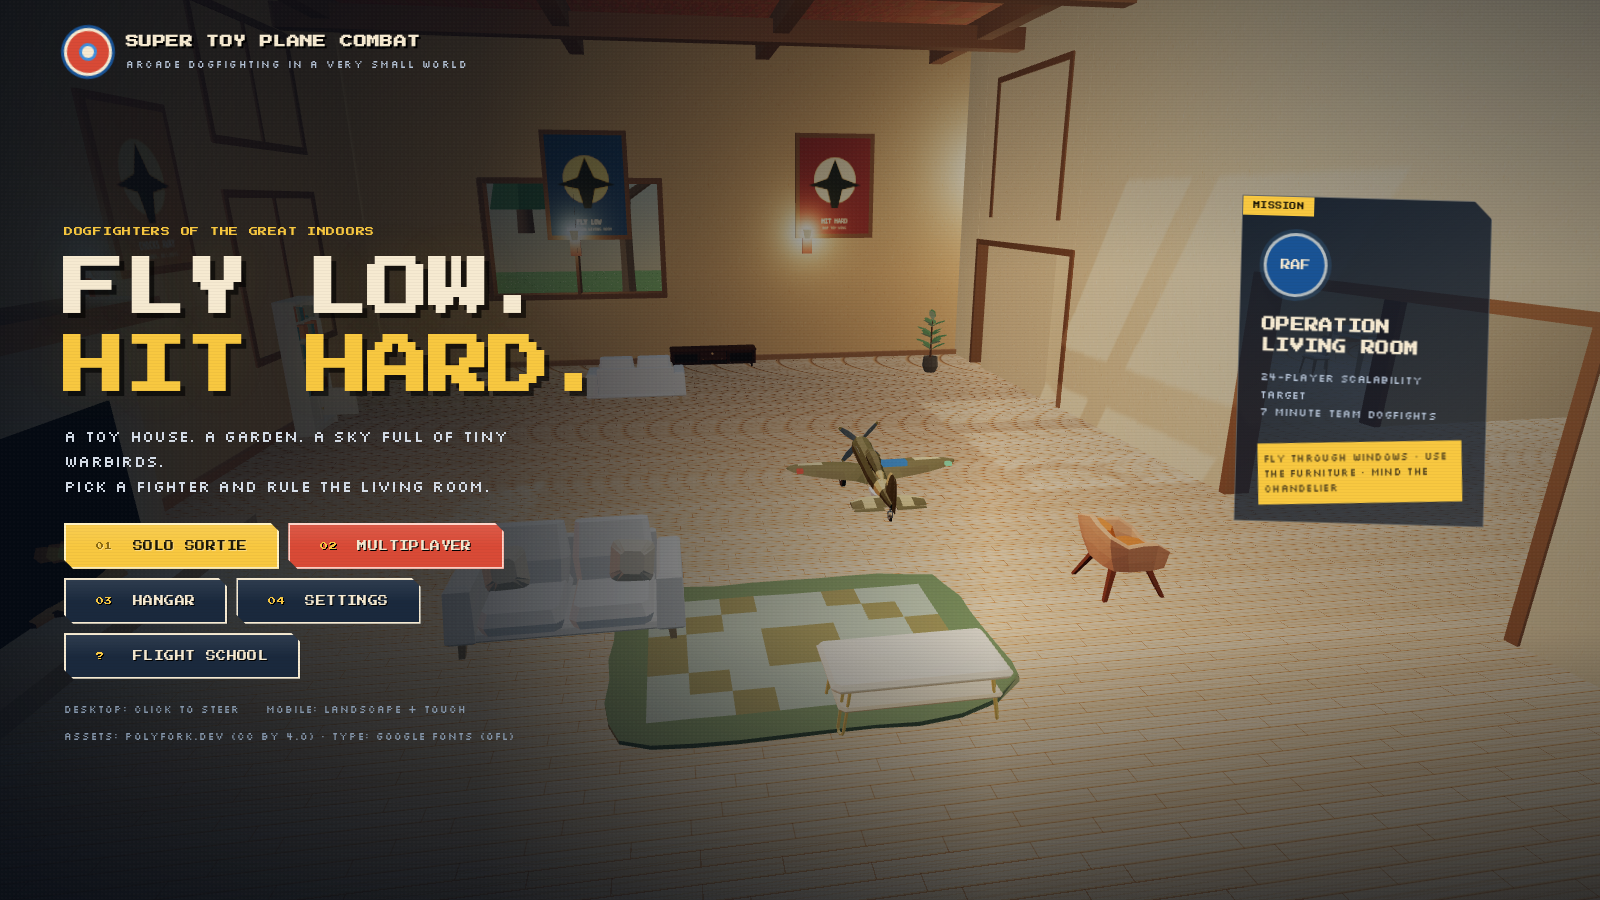
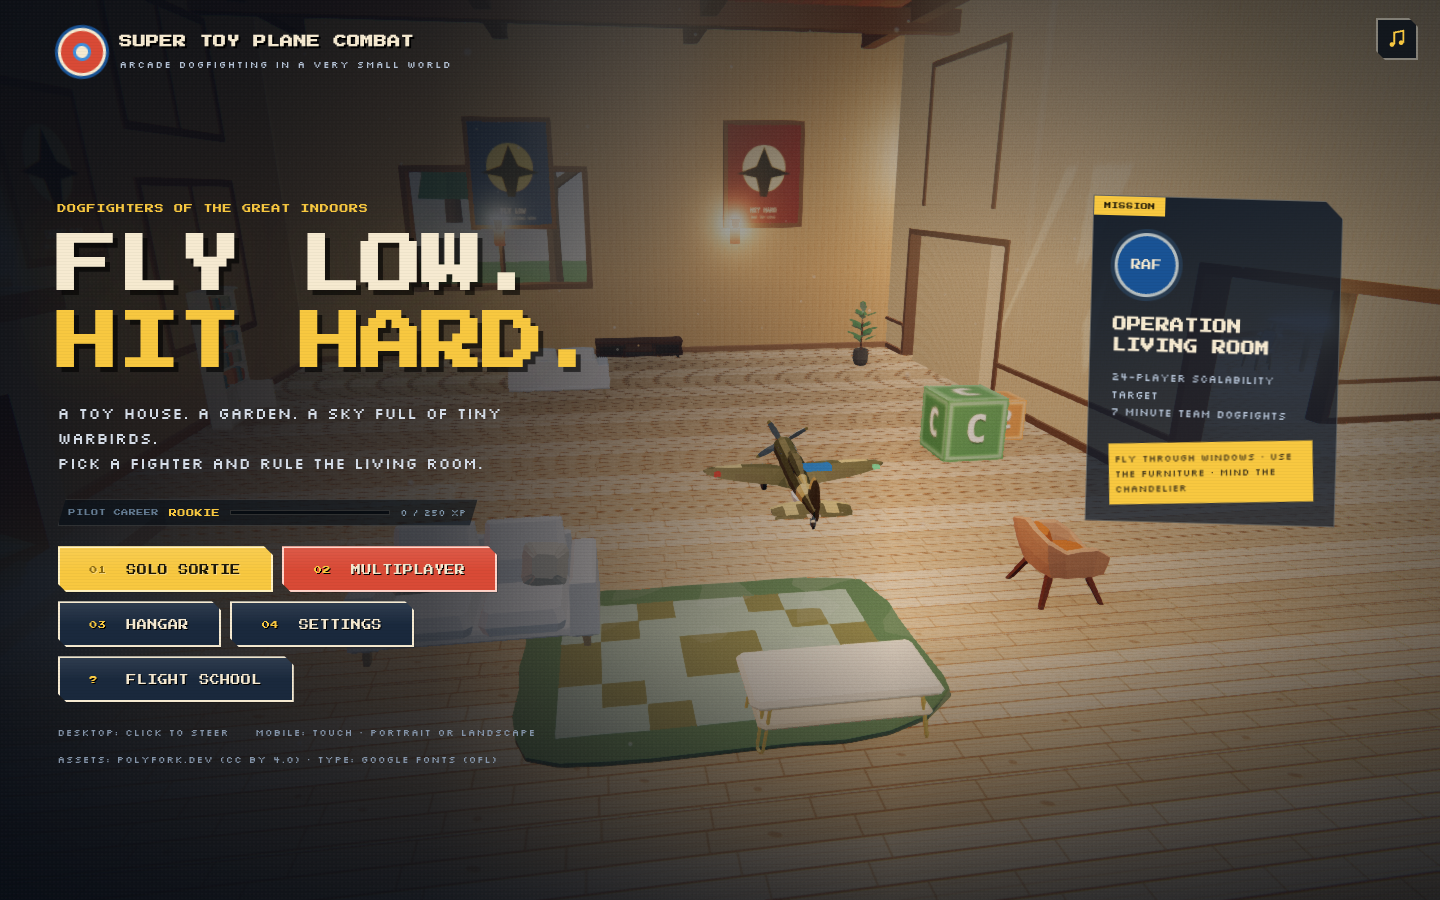
docs: refresh release screenshots with survival

diff --git a/README.md b/README.md
@@ -6,6 +6,8 @@ A complete, playable 3D arcade dogfighting game set in a giant low-poly toy hous
 
 ![Super Toy Plane Combat gameplay](docs/gameplay.png)
 
+![Toy Box Survival mode](docs/survival.png)
+
 ## Features
 
 - **One continuous toy world:** a large multi-room house with a double-height living room, kitchen, bedrooms, hallways, stairs, skylight, collidable furniture, garden, patio, trees, hedges, fountain and a fortified toy-box boundary.
